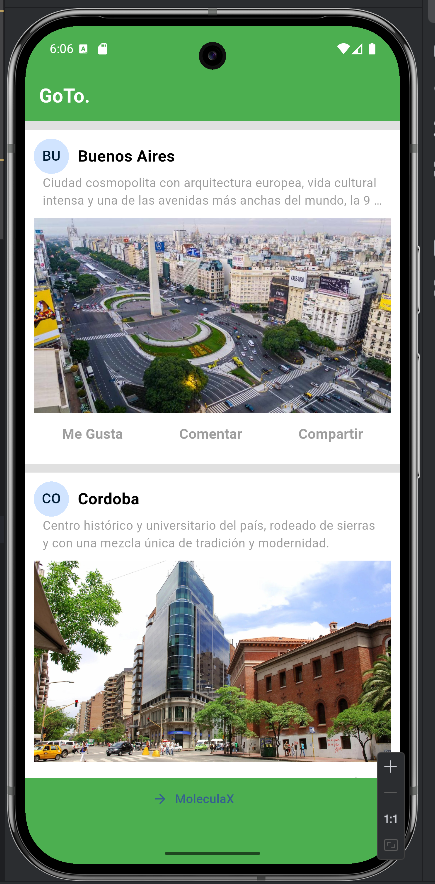
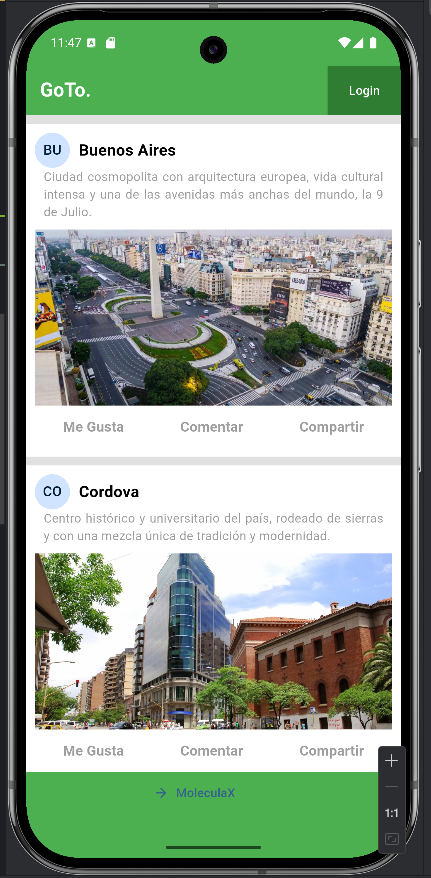
Actualizacion

diff --git a/lib/screens/Logueo.dart b/lib/screens/Logueo.dart
@@ -1,0 +1,19 @@
+import 'package:flutter/material.dart';
+import '../widgets/login_form.dart'; // ← importa tu función LoginForm
+
+// class LogueoPage extends StatelessWidget {
+//   const LogueoPage({super.key});
+//
+//   @override
+//   Widget build(BuildContext context) {
+//     return Scaffold(
+//       appBar: AppBar(
+//         title: const Text("Logueo"),
+//       ),
+//       body: Padding(
+//         padding: const EdgeInsets.all(16.0),
+//         child: LoginForm(), // Hago llamado al formulario Login
+//       ),
+//     );
+//   }
+// }
